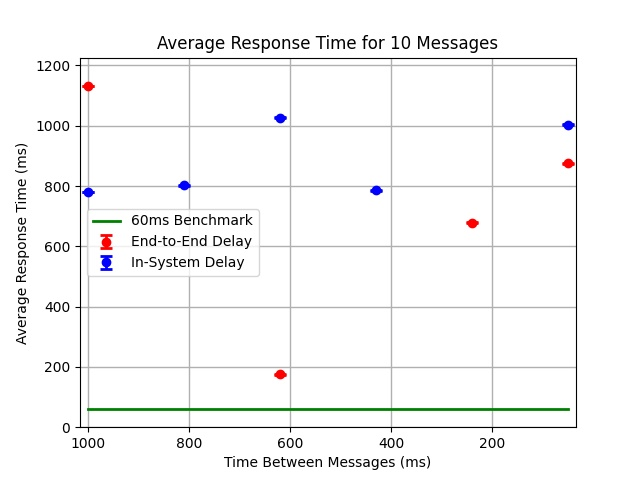
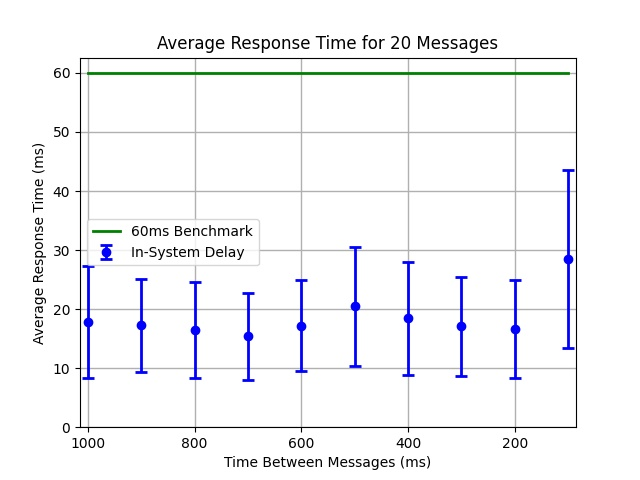
Timing Test
Test data using small parameters

diff --git a/Hub/timing.py b/Hub/timing.py
@@ -21,15 +21,15 @@ from hub_common import initialize_ports, connect_to_bluetooth, interpret_command
 from car_manager import car_manager
 
 # Number of commands to send to each car
-n = 10  # 100?
+n = 20  # 100?
 
 # Z score for 95% confidence interval
 z_score = 1.96
 
 # Variables for intervals
 starting_delay = 1000
-ending_delay = 50
-number_of_delays = 6  # 20
+ending_delay = 100
+number_of_delays = 10  # 20
 message_delays = numpy.linspace(start=starting_delay, stop=ending_delay, num=number_of_delays)
 
 # MAC addresses of the connected cars
@@ -104,8 +104,13 @@ def bluetooth_messenger(delay_, car_index_, mac_address_):
     # Table for measuring response times from the cars
     start_times_ = pandas.DataFrame(index=numpy.arange(n), columns=[car_names[car_index_]], dtype='datetime64')
 
-    # Connect to the cars with a customization command
-    bluetooth_socket = connect_to_bluetooth(mac_address_)
+    # Connect to the cars
+    bluetooth_socket = None
+    while bluetooth_socket is None:
+        try:
+            bluetooth_socket = connect_to_bluetooth(mac_address_)
+        except ConnectionError:
+            pass
 
     # Keep looping until all responses have been received
     messages_sent = 0
@@ -257,7 +262,7 @@ if __name__ == '__main__':
                 # Give the car managers time to connect to the cars
                 time.sleep(5)
 
-                # Create the subprocess for reading responses from the cars
+                # Create the subprocess for sending messages to the cars
                 messengers = [multiprocessing.Process(target=sqs_messenger,
                                                       kwargs={'delay_': message_delay},
                                                       daemon=True)]
@@ -266,7 +271,7 @@ if __name__ == '__main__':
                 car_managers = []
                 messengers = []
                 for car_index, mac_address in enumerate(mac_addresses):
-                    # Create subprocess for relaying commands to the cars from SQS
+                    # Create the subprocess for sending messages to the cars
                     messengers.append(multiprocessing.Process(target=bluetooth_messenger,
                                                               kwargs={'delay_': message_delay,
                                                                       'car_index_': car_index,
@@ -330,8 +335,8 @@ if __name__ == '__main__':
             sample_means[x][i] = delays.mean(axis=None)
             # standard_error_of_the_mean = numpy.sqrt((((delays - sample_mean) ** 2).sum() / (N - 1)) / N)
             standard_errors[x][i] = stats.sem(a=delays, axis=None)
-            print('Message Delay: {}\nSample Mean: {}\nStandard Error: {}'
-                  .format(message_delay, sample_means[x][i], standard_errors[x][i]))
+            print('{} Message Delay: {}\nSample Mean: {}\nStandard Error: {}'
+                  .format('E2E' if x == 0 else 'BT', message_delay, sample_means[x][i], standard_errors[x][i]))
 
             # Cleanup sockets
             for process in car_managers:

diff --git a/Hub/hub_common.py b/Hub/hub_common.py
@@ -199,7 +199,7 @@ def initialize_ports():
     :returns:
         A list of the serial ports available on the system
     """
-    bluetooth_com_ports = [4, 7, 16, 17]
+    bluetooth_com_ports = [4, 7, 16, 17, 21, 22, 23, 24]
     if sys.platform.startswith('win'):
         ports = set(['COM%s' % (i + 1) for i in range(30)]) - \
                 set(['COM{}'.format(i) for i in bluetooth_com_ports])
